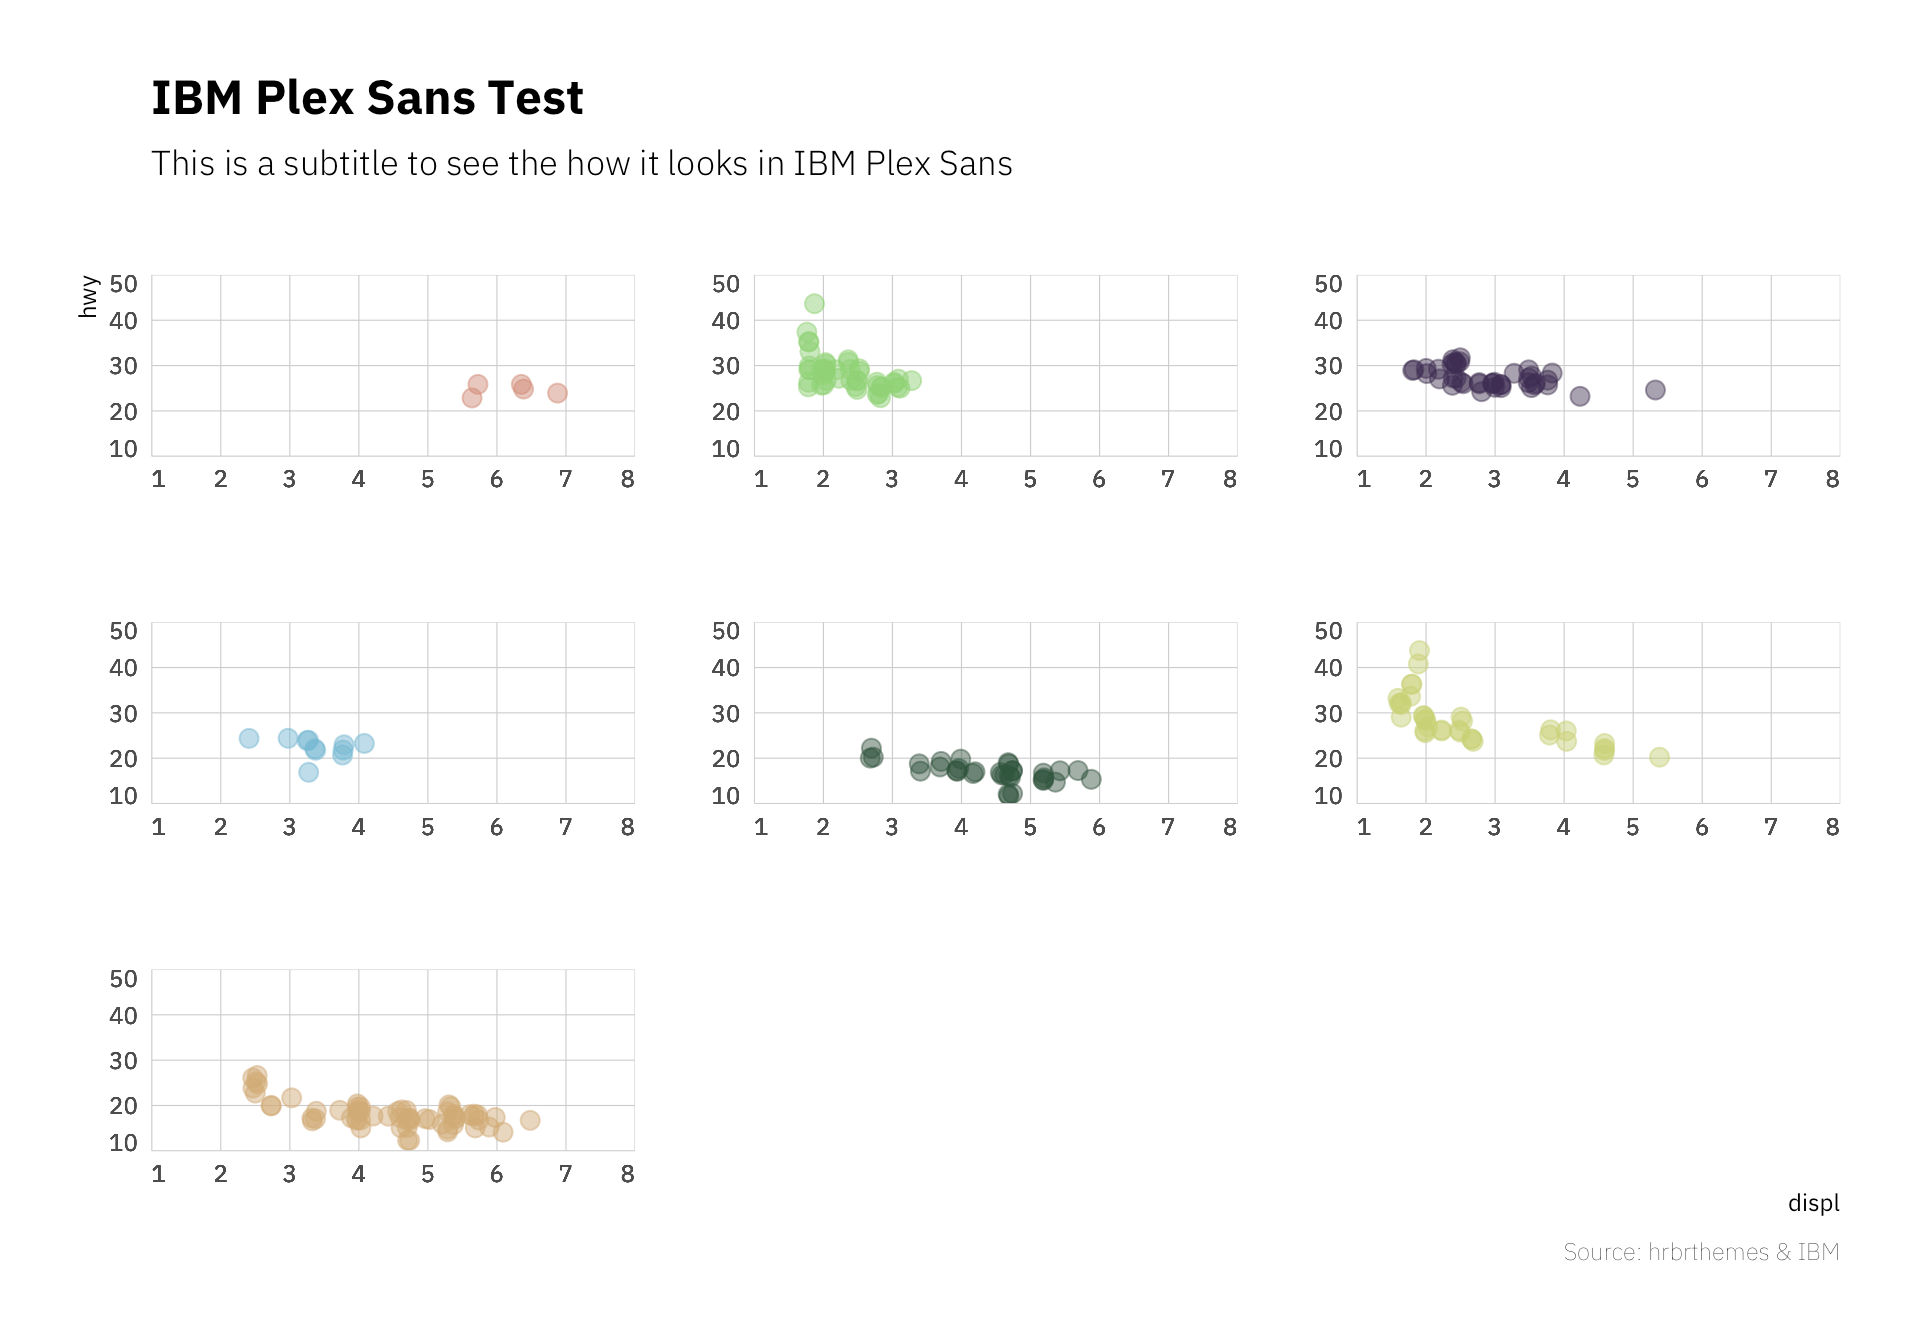
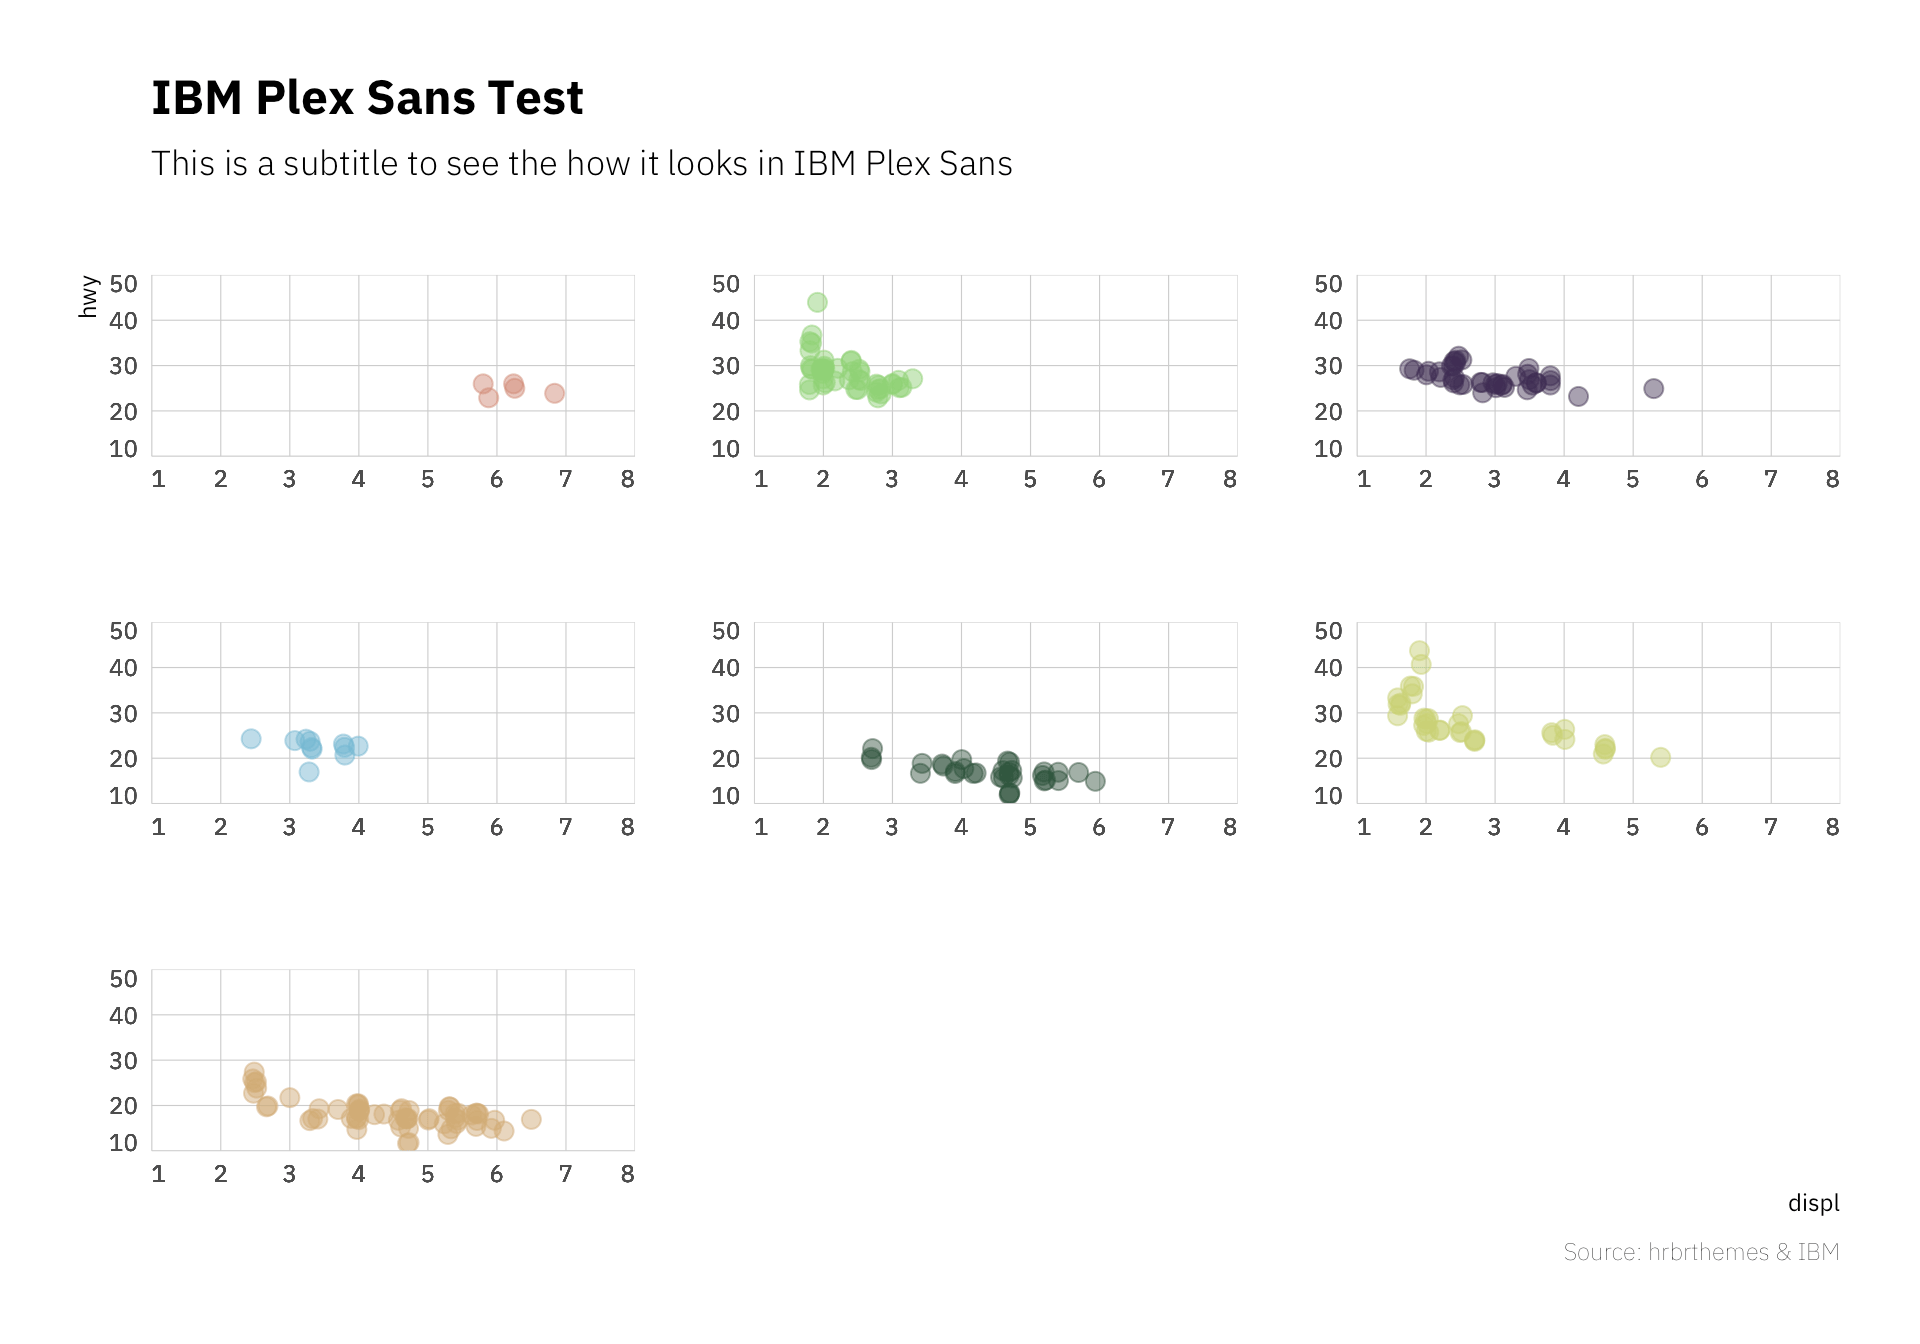
fix: readme

diff --git a/README.md b/README.md
@@ -6,7 +6,7 @@ developed.](https://www.repostatus.org/badges/latest/active.svg)](https://www.re
 [![Signed
 by](https://img.shields.io/badge/Keybase-Verified-brightgreen.svg)](https://keybase.io/hrbrmstr)
 ![Signed commit
-%](https://img.shields.io/badge/Signed_Commits-9%25-lightgrey.svg)
+%](https://img.shields.io/badge/Signed_Commits-10%25-lightgrey.svg)
 
 [![cran
 checks](https://cranchecks.info/badges/worst/hrbrthemes.png)](https://cranchecks.info/pkgs/hrbrthemes)
@@ -161,6 +161,12 @@ Utilities:
   geoms
 
 ### Installation
+
+``` r
+remotes::install_git("https://rud.is/git/hrbrthemes", git = "external")
+```
+
+or
 
 ``` r
 install.packages("hrbrthemes") # NOTE: CRAN version is 0.9.3
